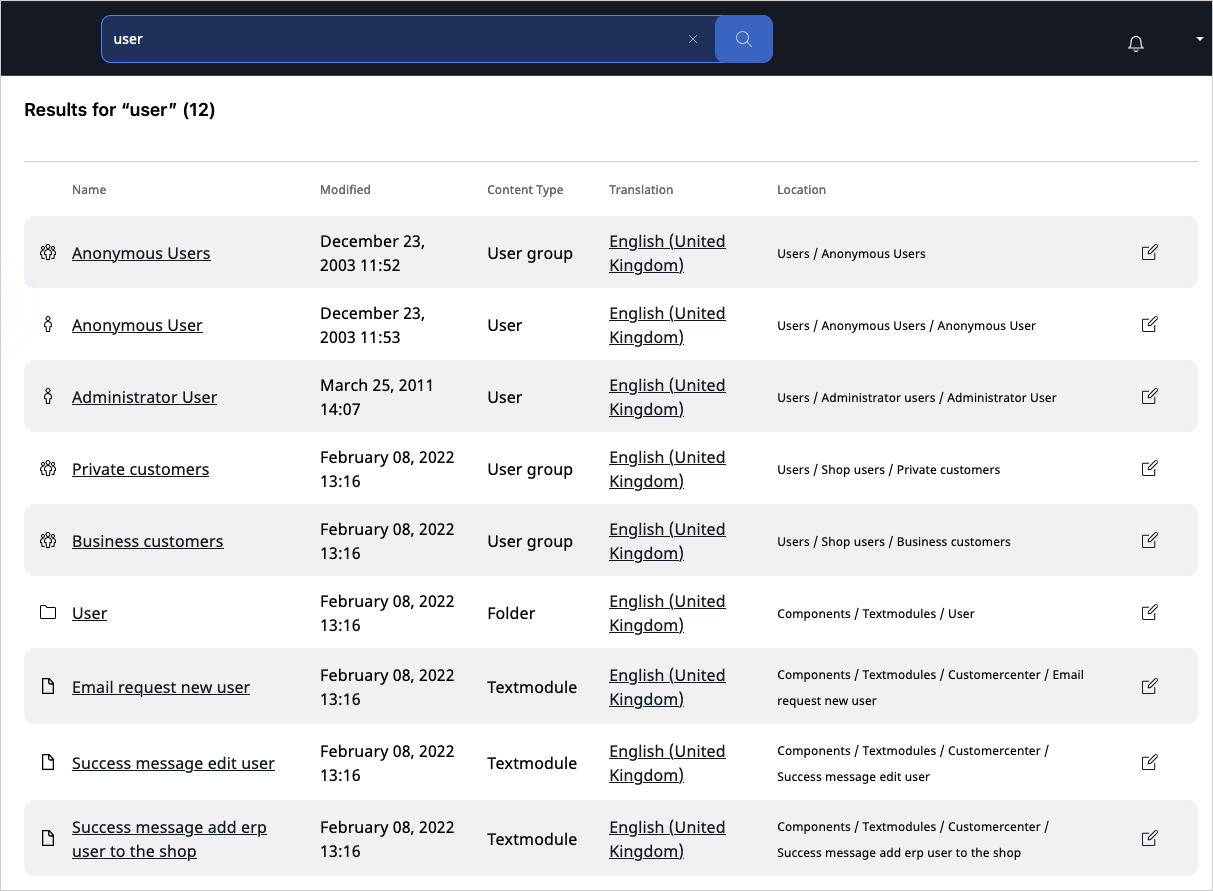
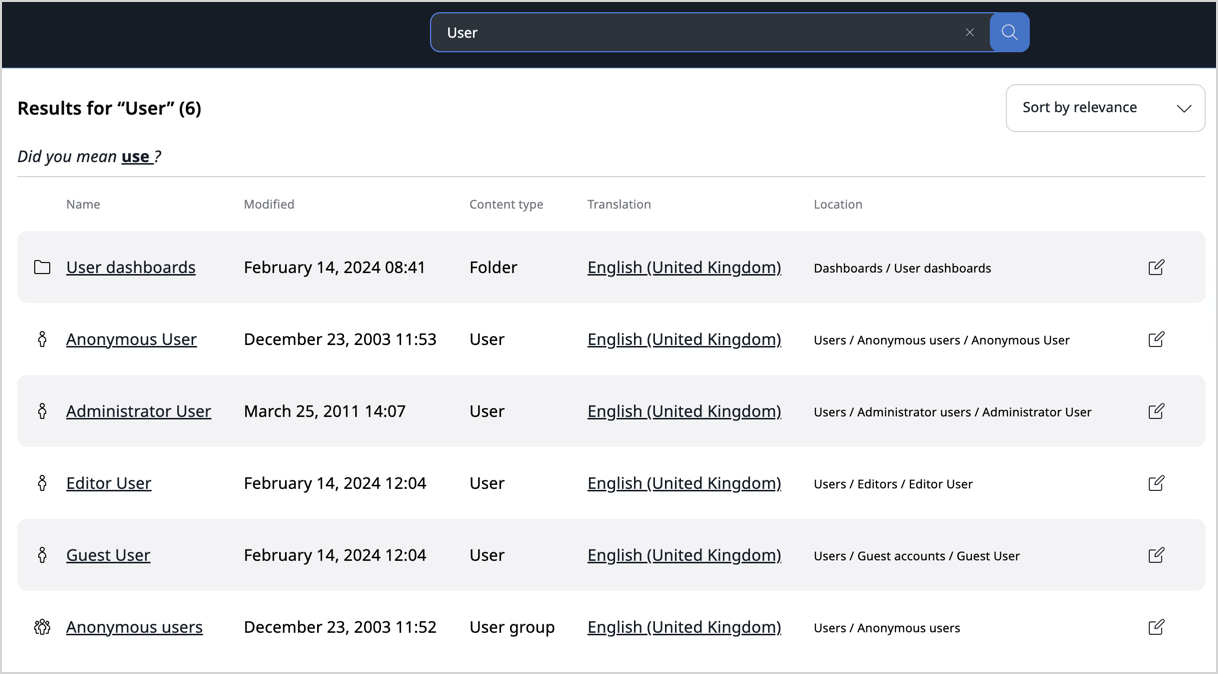
IBX-6878: Global Search Enhancements (#238)
---------

diff --git a/docs/search/search_for_content.md b/docs/search/search_for_content.md
@@ -3,26 +3,46 @@ description: Search through all content in the system and filter the results by 
 ---
 
 # Search for content
+
 You can enter a search keyword and the application checks all the searchable Fields and returns a list of search results that contain the keyword.
 
 ![Basic Search](img/basic_search.png)
 
-You can also select a language to search in.
-The results will contain content items that are translated into this language.
+Everywhere in the Back Office, completion suggestions are proposed while you type in the search box.
+In addition to clicking in the search box, you can also move focus to it by using the keyboard shortcut `Ctrl+/` on Windows/Linux, or `Cmd+/` on macOS.
 
+- If a suggestion is what you're looking for, to use it, click on it in the suggestion drop-down, or use `down` and `up` keys to highlight it, and then press the `Enter` key.
+
+- If no suggestion corresponds to your search, press the `Enter` key or click **View all results**.
+
+![Suggestion drop-down](img/suggestion.png)
+
+On the results page, if several languages are available, you can select a language to search in at the top of the left **Filters** menu.
+The results contain Content items that are translated into this language.
 The result list also shows which languages the content item is translated to.
+
+By default, the results are sorted by decreasing relevance.
+By selecting an option from a drop-down menu in the top right corner, you can sort them by name, publication date, or modification date.
+
+![Sorting menu](img/sorting_menu.png)
 
 ## Filtered search
 
 Filtered search allows you to filter by:
 
- - Content type
- - Section
- - Modified date
- - Created date
- - Creator
- - Subtree
+- Language (if more than one language available)
+- Content type
+- Modified date
+- Created date
+- Creator
+- Section
+- Subtree
 
-All new or custom content types and Sections are automatically added to the drop-down filter lists.
+All new or custom content types, sections and languages are automatically added to the drop-down filter lists.
+
+Depending on the system configuration, a Content item count can be indicated for content type and section filters.
+
+Select your filters, then click **Apply** to update the results.
+Click **Clear** to reset and remove all filters.
 
 ![Filtered Search](img/filtered_search.png)
